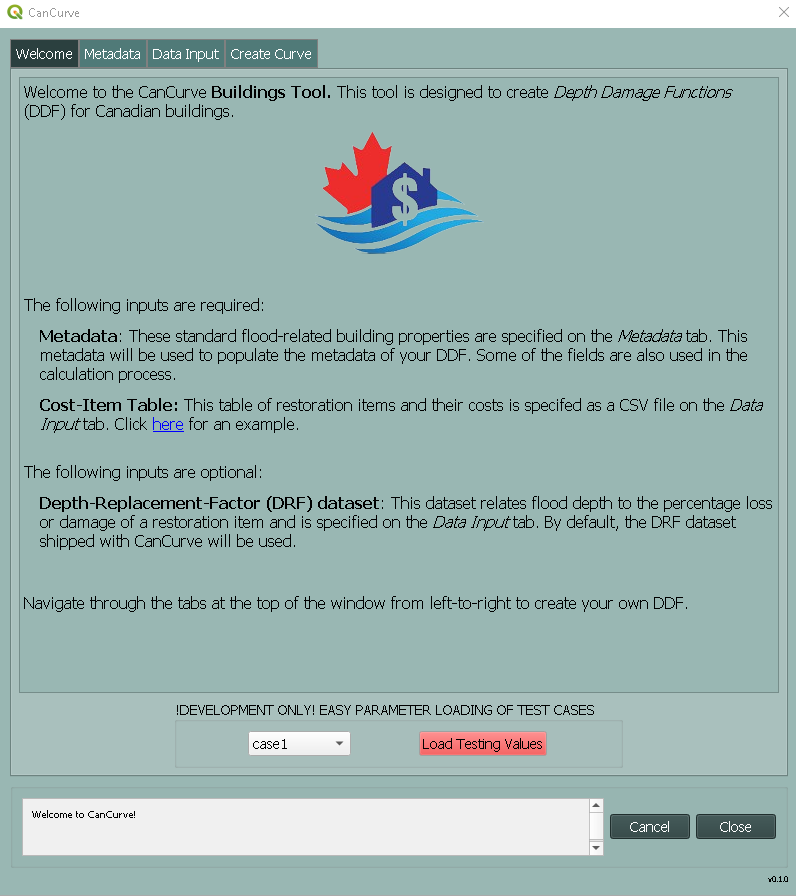
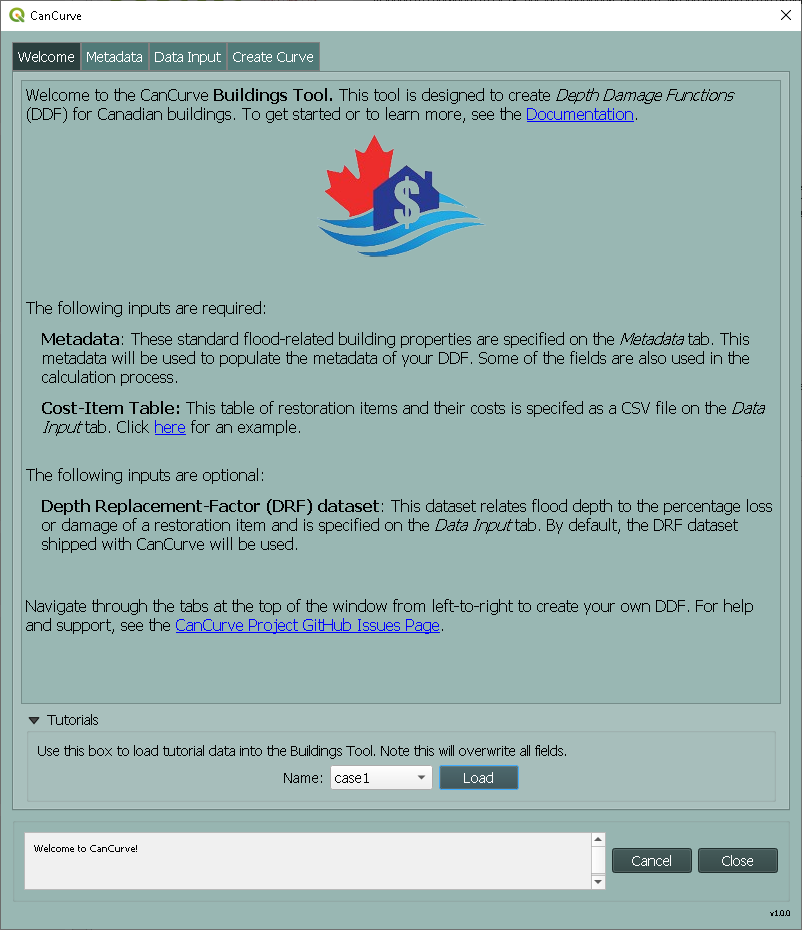
Squashed commit of the following:
commit d4fb374a6eebc67faa4d4f5b1b1ff1b5ebc0a6f5
Author: Seth Bryant <bryant.seth@gmail.com>
Date:   Wed Oct 30 17:10:58 2024 -0600

    comment updates

commit 623332e4cd011dd0016f209bde1ada19c2a99335
Author: Seth Bryant <bryant.seth@gmail.com>
Date:   Wed Oct 30 10:26:03 2024 -0600

    lint fixes

diff --git a/docs/source/conf.py b/docs/source/conf.py
@@ -50,5 +50,6 @@ language = "en"
 
 # Enable numref
 numfig = True
+numfig_secnum_depth = 0
 
 

diff --git a/docs/source/02_user-guide.rst b/docs/source/02_user-guide.rst
@@ -7,15 +7,18 @@ User Guide: Buildings Tool
 .. _sec02-bldgs:
 
 
-The CanCurve **Buildings Tool** is designed to create Depth Damage Functions (DDF) for an archetypal Canadian building from detailed restoration cost data.
-Basically, the tool joins this cost data to a database of item vulnerability then groups the data by depth to create a simple function for *flood damage* against *flood depth* (with some additional features of course).
+The CanCurve **Buildings Tool** creates Depth Damage Functions (DDF) for archetypal Canadian buildings using detailed restoration cost data.
+The resulting DDFs can be used to estimate potential costs and losses from flood scenarios using a flood risk modelling tool such as CanFlood.
+The tool joins restoration cost data with information on an item's vulnerability to floods. It then groups the data by flood depth to create a simple function that represents *flood damage* in relation to *flood depth*. In addition, the tool includes several advanced features.
+
 
 Introduction
 -------------
-The devastation of the 2013 Southern Alberta and Toronto Floods triggered a transition in Canada from the traditional standards-based approach, where flood protection is designed for a single level-of-safety, towards a risk-based approach.
-This new risk-based approach recognizes that robust planning must consider vulnerability and a range of floods that may harm a community, rather than focusing on a single design event.
-The foundation of this new approach are *flood risk models*: a collection of procedures, algorithms, and mathematical functions used to simplify, study, and quantify the components of our world that relate to flood risk.
-At the core of most flood risk models are a set of flood damage functions.
+Canada is a large country with diverse and varied geographies. Many communities are built on floodplains, near lakes and coastlines, exposing areas to short and long-term impacts from flooding. These impacts can include economic losses, environmental damage, and impacts on people. With climate change projections indicating more frequent and severe natural hazards, these consequences will likely escalate.
+Flood risk assessments are essential to plan and prepare adaptation strategies that can reduce future costs and suffering. Traditionally, assessments have focussed on a single flood scenario, which can lead to an underestimation or overestimation of modelled impacts. A more effective approach is a risk-based approach that considers a range of flood scenarios - from frequent nuisance floods to rare catastrophic events. This approach helps communities to better understand and plan for a range of strategies that address both current and future.
+Water on the floodplain is not the problem; it is how flood water interacts with both the natural and human environments. Flood risk models take into account the flood hazard data, exposure to flooding, and the vulnerability of those elements. Depth Damage Functions (DDFs) are the most effective method to estimate direct damages. For instance, DDFs can estimate the costs of damage to a building based on the depth of floodwater.
+However, the accuracy of these models depends on the robustness of the Depth Damage Function applied. In Canada, there are limited DDFs available, and many may not be suitable for all regions due to variations in both the built environment and the type of flood events, from flash floods to ice jams, high-energy coastal floods or even tsunamis.
+
 
 Depth Damage Functions (DDF)
 ~~~~~~~~~~~~~~~~~~~~~~~~~~~~~~~
@@ -36,20 +39,28 @@ Traditionally, CanFlood users struggled to obtain DDFs from past projects or pub
 To address this gap, in 2023 NRCan commissioned the Arcadis company to develop a system for constructing local DDFs in Canada.
 This resulted in a formal process for constructing DDFs called *Program for the Development of Flood Damage (Vulnerability) Curves for buildings in Canada* (a.k.a. the DDF Program or DDFP).
 To operationalize this, NRCan initiated the CanCurve project.
+ 
 
-.. _sec02-dataRequirements:
 
-Data Requirements
------------------
-The **Buildings Tool** requires three types of data about the archetypal building in order to generate a DDF, as summarized in the following sections.
-See :ref:`Tutorials <sec03-tutorials>` for data examples.
+.. _sec02-tabs:
 
-Building Metadata
-~~~~~~~~~~~~~~~~~
-Building metadata is simple information relevant to estimating the flood vulnerability of an archetype, like the year of construction, the date associated with the cost estimate, the person preparing the estimate, etc.
-This information is used by the Buildings Tool to populate metadata fields on output DDFs and, in some cases, to assemble the DDF.
-Metadata is specified on the **Metadata** tab and stored in the **c00_bldg_meta** table of the :ref:`Project Database <sec02-projectdatabase>`
-The user is expected to obtain this information from expert knowledge and documentation on the archetype.
+
+.. _sec02-tabs-welcome:
+
+Welcome Tab
+------------
+The :ref:`Welcome tab <fig-dialog-welcome>` provides a brief introduction to the Buildings Tool and links to the User Guide and Project Page.
+If you want to load a tutorial dataset, select one of the Tutorial Case Examples by loading the testing values button. See :ref:`Tutorials <sec03-tutorials>` for data examples.
+
+.. _sec02-tabs-metadata:
+
+
+Metadata Tab
+------------
+Metadata is used by the Buildings Tool to populate metadata fields on output DDFs and assemble the DDF.
+The user is expected to obtain this information from expert knowledge and documentation on the archetype building.
+Enter available information into the Metadata tab.
+Only fields marked with an asterisk (*) are mandatory, but the more information you provide, the more complete your DDF will be.
 To assemble the DDF, the following metadata is required:
 
  - **Building Layout** (``bldg_layout``): Corresponds to categories in the DRF dataset.
@@ -57,32 +68,48 @@ To assemble the DDF, the following metadata is required:
  - **Structure area value** (``scale_value``): The area of the structure in square meters used to scale the cost values for :ref:`Area-based <sec02-costbasis>` cost basis.
 
 It is good practice to specify additional metadata fields, which the  Buildings Tool  propagates onto the output DDFs.
+For example data, see the :ref:`Tutorials <sec03-tutorials>`.
 
-.. _sec02-costItem:
+.. _fig-tab-metadata:
 
-Cost-Item Table
-~~~~~~~~~~~~~~~~
+.. figure:: /assets/02-dialog-metadata.PNG
+   :alt: Metadata Tab
+   :align: center
+   :width: 900px
 
-This restoration item and cost data is specified as a CSV file on the **Data Input** tab.
-Typically this information is obtained from cost restoration experts using specialized software like Xactimate and a detailed model of the structure.
+   Metadata tab of the Buildings Tool.
+
+.. _sec02-costitem:
+.. _sec02-drf:
+.. _sec02-fixedCosts:
+
+Data Input Tab
+----------------
+Specify settings and locations for datasets:
+
+ - **Cost-item table**: This table provides detailed information on restoration costs for various items. The data is specified as a CSV file and is typically sourced from cost restoration experts using specialized software like Xactimate, combined with a detailed model of the building structure.
+ - **Fixed Costs**: This simple dataset contains two values: the fixed restoration costs for the basement and the main floor. These costs represent the sum of all depth-invariant cost items, i.e., costs that are incurred regardless of flood depth, such as mobilization fees or permit charges.
+ - **Depth-Replacement Factor (DRF) Database**: This dataset includes information on the Depth-Replacement Factor, which is essential for calculating restoration costs based on flood depth. This database relates flood depth to the percentage loss or damage of a restoration item. By default, the DRF database included with CanCurve will be used, and  is installed into the `./db` directory of the CanCurve plugin. The database was developed in consultation with cost-restoration specialists and reflects the vulnerability of a typical Canadian building to stillwater flooding. :numref:`fig-conceptual-diagram` provides a diagram of how the remote, local, and project datasets are related.
 
 
-.. _sec02-DRF:
-
-Depth Replacement-Factor (DRF) Database
-~~~~~~~~~~~~~~~~~~~~~~~~~~~~~~~~~~~~~~
-This database relates flood depth to the percentage loss or damage of a restoration item and is specified on the **Data Input** tab.
 The DRF database is a SQLite database with three tables:
-
  - **cost_item_meta**: lookup and description fields for each cost-item with key fields ``cat``, ``sel``, and ``bldg_layout``.
  - **drf**: the depth-replacement-factor for each cost-item with key fields ``cat``, ``sel``, and ``bldg_layout``.
+ - **depths**: depth values (in feet and meters) corresponding to the columns in the DRF table.
  - **meta**: metadata for the database.
 
-By default, the DRF database shipped with CanCurve will be used, which is installed into the `./db` directory of the CanCurve plugin.
-This database was constructed by the DDFP project in consultation with cost-restoration specialists and reflects the vulnerability of a typical Canadian building to stillwater flooding.
-:numref:`fig01-conceptual-diagram` provides a diagram of how the remote, local, and project datasets are related.
+.. _fig-tab-dataInput:
 
-.. _fig01-conceptual-diagram:
+.. figure:: /assets/02-dialog-dataInput.PNG
+   :alt: Data Input Tab
+   :align: center
+   :width: 900px
+
+   Data Input tab of the Buildings Tool.
+
+
+
+.. _fig-conceptual-diagram:
 
 .. figure:: /assets/01-conceptual-diagram.png
    :alt: Conceptual Diagram
@@ -91,20 +118,24 @@ This database was constructed by the DDFP project in consultation with cost-rest
 
    Conceptual diagram of the CanCurve Buildings Tool.
 
-.. _sec02-fixedCosts:
 
-Fixed Costs
-~~~~~~~~~~~~~~~~~~~~~~~~~~~~~~~~~~~~~~
-This simple dataset has two values: the fixed costs for the restoration of the basement and the mainfloor.
-This represents the sum of all depth-invariant cost items for each floor i.e., restoration costs that would be incurred regardless of flood depth.
-For example, mobilization costs or permit fees.
-This dataset is specified on the **Data Input** tab and stored in the **c00_fixed_costs** table of the Project Database.
+Create Curve Tab
+------------------
+The **Create Curve** tab is where the user can execute the four steps of the :ref:`Curve Creation <sec02-Core>` process to generate a DDF from the input data and settings :numref:`fig-tab-createCurve`.
+These steps can be executed individually or all at once using the **Run Control** radio buttons.
+For additional configuration settings, the **Output Control** box can be expanded to specify plot settings, the DDF output format, and the :ref:`Cost-Basis <sec02-costBasis>`.
+The first three steps of the :ref:`Curve Creation <sec02-Core>` process write intermediate SQLite tables to the project database.
+Because of this, you can save and restore progress by selecting an existing :ref:`Project Database <sec02-projectDatabase>` file.
 
 
-Key Concepts
------------------
-The **Buildings Tool** is composed of the Graphical User Interface (GUI) front-end and a collection of python scripts for performing the data operations in the back-end, called the ``core`` which contains four :ref:`Curve Creation <sec02-Core>` steps.
-A typical workflow starts by preparing the :ref:`Input Data <sec02-dataRequirements>`, populating the fields in the GUI, then executing the :ref:`Curve Creation Steps <sec02-Core>`.
+.. _fig-tab-createCurve:
+
+.. figure:: /assets/02-dialog-createCurve.PNG
+   :alt: Create Curve Tab
+   :align: center
+   :width: 900px
+
+   Create Curve tab of the Buildings Tool.
 
 
 
@@ -128,6 +159,44 @@ These are controlled from the **Create Curve** tab and can be executed individua
    Export the DDF in the :ref:`CanFlood format <sec02-CanFloodFormat>`.
 
 To pass information between these steps and to save the user's progress to disk, all of these steps read or write to a :ref:`Project Database <sec02-projectDatabase>`.
+
+
+Results
+-----------------
+
+CanCurve supports exporting DDFs in the CanFlood format.
+
+.. _sec02-CanFloodFormat:
+
+CanFlood Format DDF
+~~~~~~~~~~~~~~~~~~~~~~~~~~~~~~~~~~~~~~
+Currently, the buildings tool supports exporting DDFs in the CanFlood format.
+The `CanFlood <https://github.com/NRCan/CanFlood>`_ program expects DDFs to be in a certain format, namely an XLSX file with two columns divided into two sections.
+The first section contains the metadata in key-value pairs while the second section contains the exposure-impact series.
+CanFlood requires three keys in the metadata section:
+
+ - ``tag``: used for linking the curve to the inventory.
+ - ``impact_units``: used for indicating what units the impact values are in (e.g., $CAD) on plots and reports.
+ - ``exposure``: used to indicate the transition between the metadata and the exposure-impact sections.
+
+It is good practice to include additional metadata (e.g., location); however, these are not strictly required by CanFlood.
+Below is a minimum example CanFlood format DDF.
+
+.. _fig02-CanCurve-format:
+
+.. figure:: /assets/02-CanCurve-format.png
+   :alt: CanCurve format
+   :align: center
+   :width: 900px
+
+   CanFlood format DDF minimum example.
+
+Key Concepts
+-----------------
+The **Buildings Tool** is composed of the Graphical User Interface (GUI) front-end and a collection of python scripts for performing the data operations in the back-end, called the ``core`` which contains four :ref:`Curve Creation <sec02-Core>` steps.
+
+
+
 
 .. _sec02-projectDatabase:
 
@@ -165,30 +234,7 @@ The database is composed of several tables, each of which is used by one or more
 To view and manipulate the project database, the user can use a SQLite database viewer like `DB Browser for SQLite <https://sqlitebrowser.org/>`_.
 
 
-.. _sec02-CanFloodFormat:
 
-CanFlood Format DDF
-~~~~~~~~~~~~~~~~~~~~~~~~~~~~~~~~~~~~~~
-Currently, the buildings tool supports exporting DDFs in the CanFlood format.
-The `CanFlood <https://github.com/NRCan/CanFlood>`_ program expects DDFs to be in a certain format, namely an XLSX file with two columns divided into two sections.
-The first section contains the metadata in key-value pairs while the second section contains the exposure-impact series.
-CanFlood requires three keys in the metadata section:
-
- - ``tag``: used for linking the curve to the inventory.
- - ``impact_units``: used for indicating what units the impact values are in (e.g., $CAD) on plots and reports.
- - ``exposure``: used to indicate the transition between the metadata and the exposure-impact sections.
-
-It is good practice to include additional metadata (e.g., location); however, these are not strictly required by CanFlood.
-Below is a minimum example CanFlood format DDF.
-
-.. _fig02-CanCurve-format:
-
-.. figure:: /assets/02-CanCurve-format.png
-   :alt: CanCurve format
-   :align: center
-   :width: 900px
-
-   CanFlood format DDF minimum example.
 
 .. _sec02-costBasis:
 
@@ -210,12 +256,11 @@ The Buildings Tool is unit-agnostic, meaning any units you specify are supported
 Any units explicitly specified (e.g., through drop downs) or implicitly (e.g., through input data) are propagated into CanFlood's project tables and the final DDF outputs.
 In otherwords, there are *no unit conversions* under-the-hood, by design.
 Users should be aware of the three main units concerning DDFs:
- - **Currency**: This is related to the :ref:`Cost Basis <sec02-costBasis>`_, and is input implicitly from the :ref:`Cost Items <_sec02-costItem>`_ table. Users should ensure the **Currency** drop down on the **Metadata** tab is consistent with this table so that the resulting DDF metadata is accurate.
+
+ - **Currency**: This is related to the :ref:`Cost Basis <sec02-costBasis>`, and is input implicitly from the :ref:`Cost Items <sec02-costItem>` table. Users should ensure the **Currency** drop down on the **Metadata** tab is consistent with this table so that the resulting DDF metadata is accurate.
  - **Vertical Distances**: Both the *exposure depths* and the *basement heights* must be provided in the same units (no checks are performed on this). These units are specified on the *Data Input* tab under *exposure units* (feet or meters). These values are used to calculate the *exposure depths* on the resulting DDF.
- - **Structure Area**: To calculate *area-based curves*, the user must provide a *Structure area* value and unit on the *Metadata* tab (ft2 or m2). These units must be consistent with the intended application of the DDFs. For example, if you plan to use building area as a scaler in your flood risk model, the units of the area in the exposure data must match the units of your DDF. Often this is the same system as the **vertical distance** (e.g., metric), but this is not a requirement, i.e., a curve with a vertical distance of meters and an area of square feet is valid. 
+ - **Structure Area**: To calculate *area-based curves*, the user must provide a *Structure area* value and unit on the *Metadata* tab (ft2 or m2). These units must be consistent with the intended application of the DDFs. For example, if you plan to use building area as a scaler in your flood risk model, the units of the area in the exposure data must match the units of your DDF. Often this is the same system as the **vertical distance** (e.g., metric), but this is not a requirement, i.e., a curve with a vertical distance of meters and an area of square feet is valid.
 
-
- 
 
 
 

diff --git a/docs/source/01_getting-started.rst b/docs/source/01_getting-started.rst
@@ -12,9 +12,15 @@ Installation
 ------------
 
 To install CanCurve, you first need to install QGIS, then you can install CanCurve from the Plugin Repository.
-
 For detailed instructions, refer to the `project README <https://github.com/NRCan/CanCurve/tree/main?tab=readme-ov-file#installation>`_.
 For best performance, ensure you have the specified version of QGIS installed.
+
+After installation of the plugin, the |CanCurve_icon| icon should appear on your plugins toolbar.
+If you don't see the icon, first ensure the plugin is checked on the **Installed** tab of the "**Manage and Install Plugins..**" dialog, then ensure the **plugins toolbar** is enabled by right-clicking the QGIS toolbar.
+
+.. |CanCurve_icon| image:: /assets/icon_solid.png
+   :align: middle
+   :width: 14
 
 
 .. _sec01-overview:
@@ -36,17 +42,12 @@ Once these inputs and the building metadata are prepared and entered into the Bu
 
 Quick-Start
 -----------------------
-After installation of the plugin, the |CanCurve_icon| icon should appear on your plugins toolbar.
-If you don't see the icon, first ensure the plugin is checked on the **Installed** tab of the **Manage and Install Plugins..** dialog; then ensure the **plugins toolbar** is enabled by right-clicking the QGIS toolbar.
 
-.. |CanCurve_icon| image:: /assets/icon_solid.png
-   :align: middle
-   :width: 14
 
 To start working with CanCurve, click the |CanCurve_icon| to open the :ref:`Buildings Tool <sec02-bldgs>` dialog.
 
 
-.. _fig01-dialog-welcome:
+.. _fig-dialog-welcome:
 
 .. figure:: /assets/01-dialog-welcome.png
    :alt: Welcome Tab
@@ -83,7 +84,7 @@ Frequently Asked Questions
 **Do I really need to install an old version of QGIS to use CanCurve**
       No, but we recommend it for best performance. If you have a newer version of QGIS installed, you can try CanCurve with it, but you may experience issues.
 
-      
+
 
 
 

diff --git a/README.md b/README.md
@@ -15,16 +15,6 @@ CanCurve is an open-source tool for developing flood depth-damage (stage-damage)
 
 ## Documentation
 Project documentation is [here](https://cancurve.readthedocs.io/en/latest/)
- 
-## Background
-In Canada, a limited number of developed damage functions are available to support flood risk assessments. The existing functions lack a standardized process, and the underlying algorithms and data to derive them are unclear, making them a bit of a ‘black box.’ Additionally, transferability from one region to another can be challenging. 
-<p>
-Previous work in 2023 explored the development of a framework for developing depth damage functions. This work resulted in a synthesis of the existing methods being used in Canada to develop depth damage functions. Additionally, it included some details on work done internationally. Several limitations to existing approaches were identified, and a novel and more transparent way to develop depth damage curves was proposed.
-<p></p>
-CanCurve uses room component replacement costs to generate Depth Damage Functions (DDF) from detailed restoration cost data. This approach allows for a clearer understanding of the contributing components to the overall losses experienced during a flood event. The tool joins cost data to a database of item vulnerability. Then, it groups the data by water depth to create a simple function for flood damage against flood depth. 
-<p></p>
-The tool also allows users to aggregate data using pivot tables to view items, rooms, and damage estimates at various levels of aggregation. This added flexibility and transparency will provide users with a better understanding of the DDF data used in the calculation, allowing for more informed decisions on the applicability of curves to use and allow for easier translation for use in other regions.  
-<p></p>
 
 
 ## Installing for the first time
